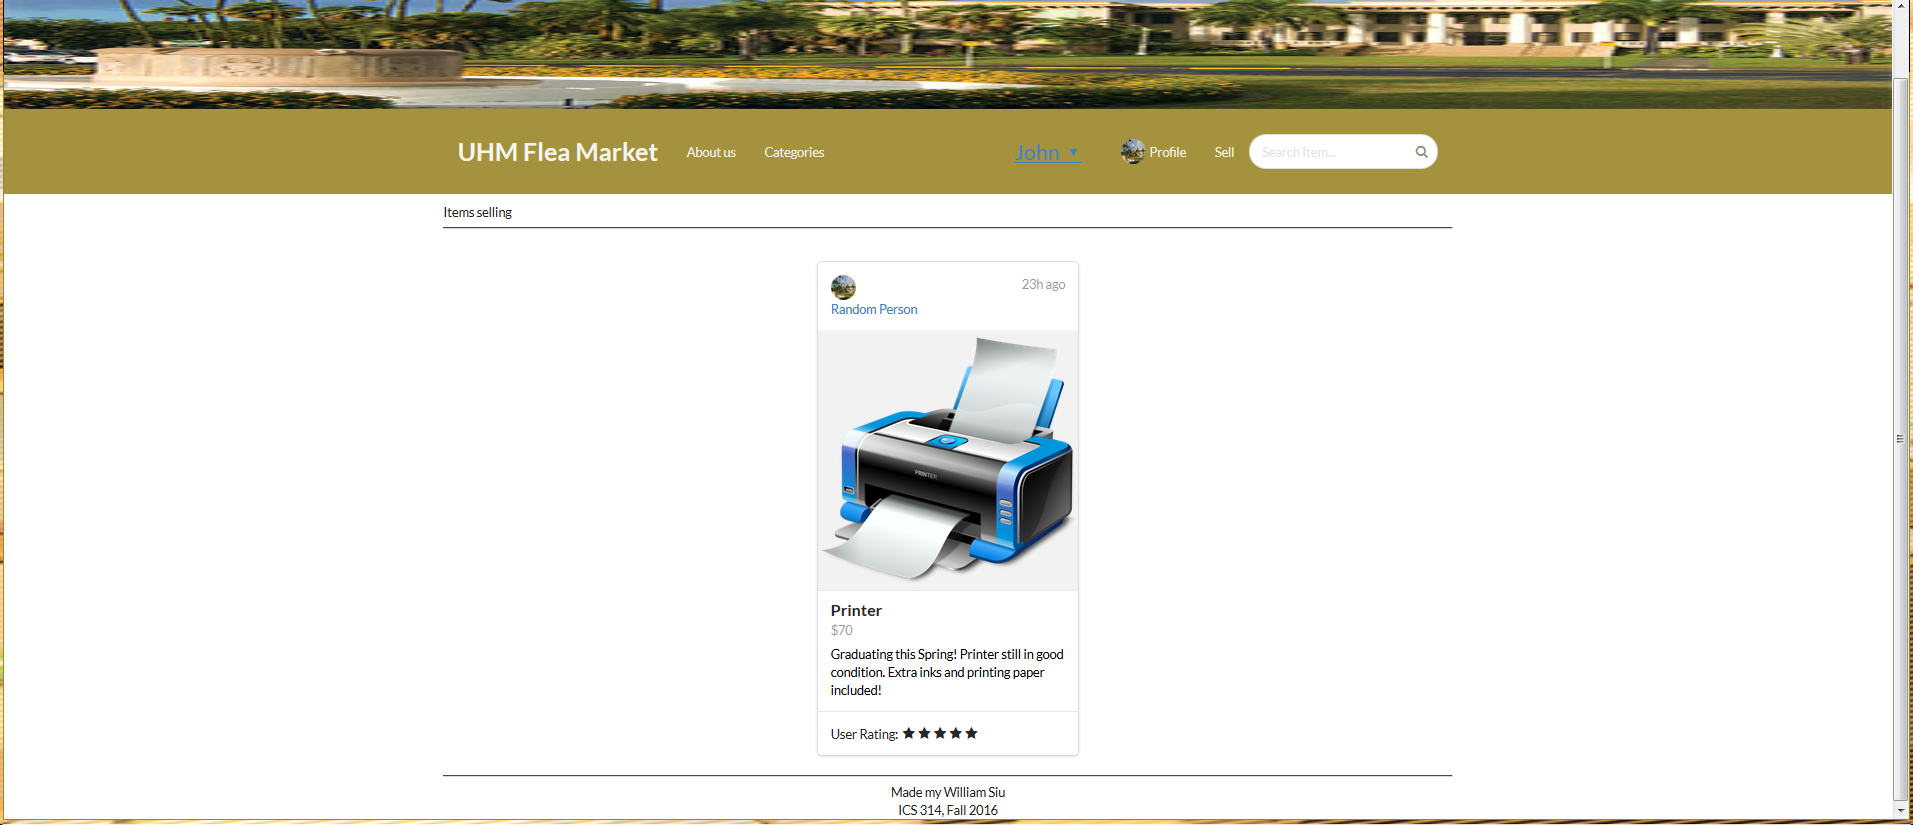
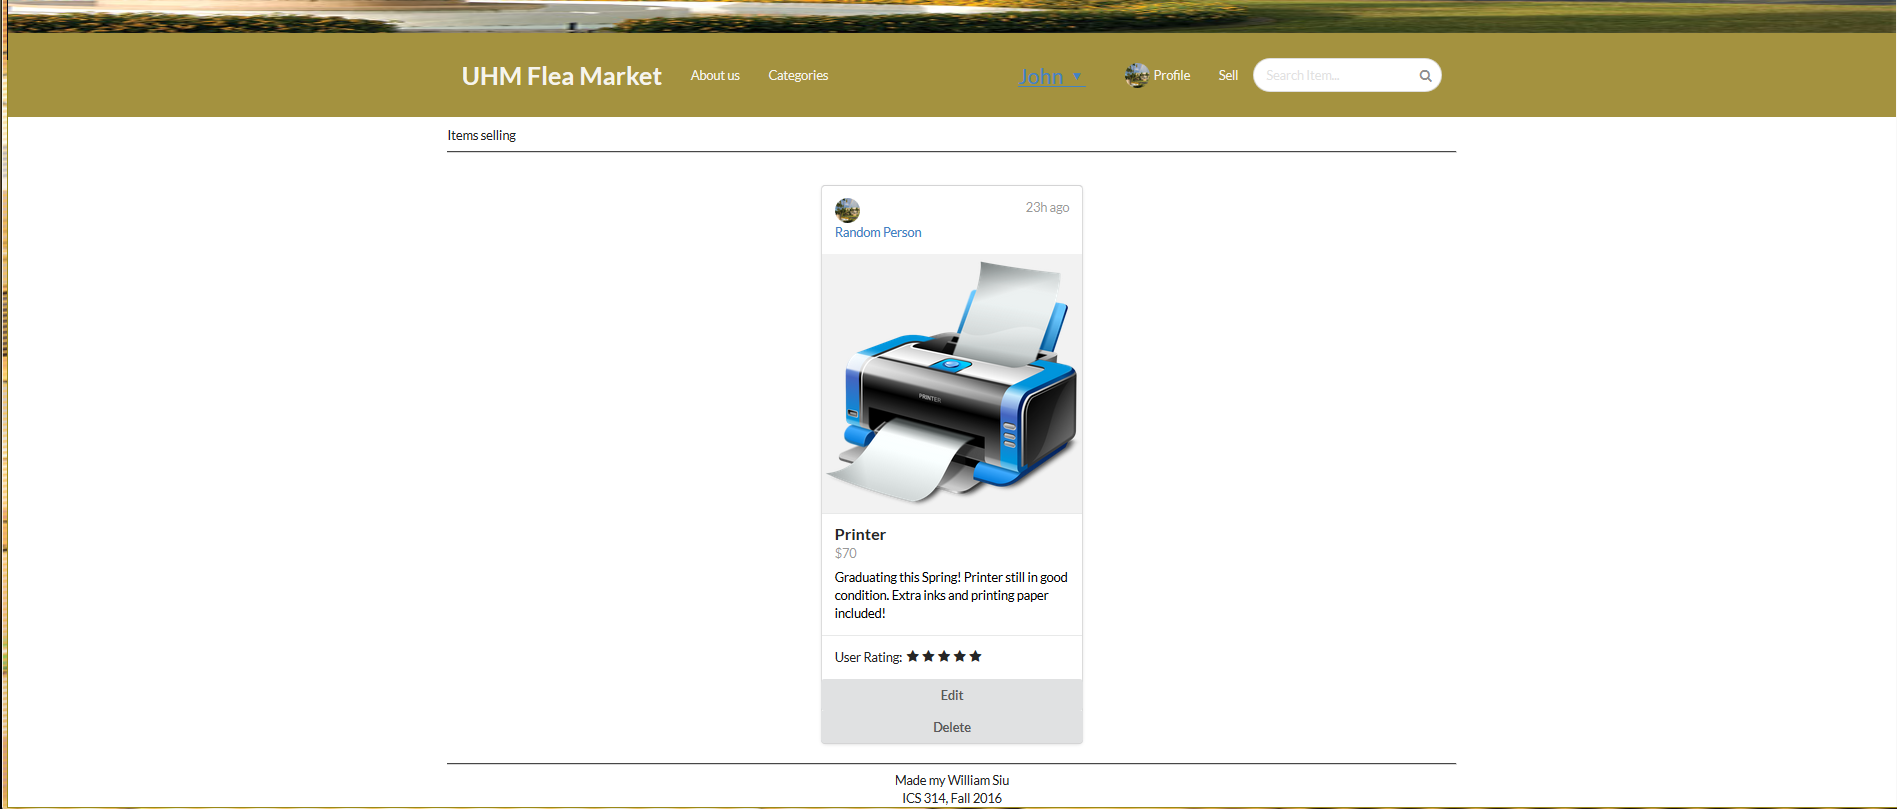
bookmark;new screenshots;add/delete sell items

Changed region(s): [[0.0, 0.0, 1.0, 1.0], [0.4354, 0.3399, 0.4665, 0.4017]]

diff --git a/app/imports/ui/pages/bookmark-page.html b/app/imports/ui/pages/bookmark-page.html
@@ -1,0 +1,35 @@
+<template name="Bookmark_Page">
+  <div class="ui container" style="font-size:38px; padding-top:20px">Bookmarks
+    <hr/>
+  </div>
+  <div class="ui link centered cards" style="padding-top: 30px">
+
+    <div class="card">
+      <div class="content">
+        <div class="right floated meta">23h ago</div>
+        <a class="{{ isActiveRoute 'Item_Page'}} item" href="{{ pathFor 'Item_Page' }}">
+          <img class="ui avatar image" src="/images/UHM-logo.jpg"> Random Person
+        </a>
+      </div>
+      <a class="{{ isActiveRoute 'Item_Page'}} small image" href="{{ pathFor 'Item_Page' }}">
+          <img src="/images/printer.png">
+        </a>
+      <div class="content">
+        <a class="header">Printer<i class="bookmark red icon"></i></a>
+        <div class="meta">
+          <a>$70</a>
+        </div>
+        <div class="description">
+          <a class="{{ isActiveRoute 'Item_Page'}} item" href="{{ pathFor 'Item_Page' }}" style="color:black">
+          Graduating this Spring! Printer still in good condition. Extra inks and printing paper included!
+        </a>
+        </div>
+      </div>
+      <div class="content">
+        User Rating:
+        <div class="ui rating" data-rating="5"></div>
+      </div>
+    </div>
+
+  </div>
+</template>

diff --git a/app/imports/ui/pages/profile-page.html b/app/imports/ui/pages/profile-page.html
@@ -1,7 +1,8 @@
 <template name="Profile_Page">
   <div style="padding-top: 20px" class="ui container">
-    <a class="{{ isActiveRoute 'Edit_Profile_Page'}} item" href="{{ pathFor 'Edit_Profile_Page' }}"> Edit profile </a><br/>
-    <a class="{{ isActiveRoute 'List_Stuff_Page'}} item" href="{{ pathFor 'List_Stuff_Page' }}"> View listed selling items</a><br/>
-    <a class="{{ isActiveRoute 'Message_Page'}} item" href="{{ pathFor 'Message_Page' }}"> View messages</a>
+    <a class="{{ isActiveRoute 'Edit_Profile_Page'}} item" href="{{ pathFor 'Edit_Profile_Page' }}"> Edit Profile </a><br/>
+    <a class="{{ isActiveRoute 'List_Stuff_Page'}} item" href="{{ pathFor 'List_Stuff_Page' }}"> View Listed Selling Items</a><br/>
+    <a class="{{ isActiveRoute 'Message_Page'}} item" href="{{ pathFor 'Message_Page' }}"> View Messages</a><br/>
+    <a class="{{ isActiveRoute 'Bookmark_Page'}} item" href="{{ pathFor 'Bookmark_Page' }}"> View Bookmarks</a>
   </div>
 </template>

diff --git a/app/imports/ui/pages/list-stuff-page.html b/app/imports/ui/pages/list-stuff-page.html
@@ -2,6 +2,7 @@
   {{#If_Logged_In}}
   <div class="ui container" style="padding-top: 10px">Items selling<hr/></div>
   <div class="ui link centered cards" style="padding-top: 30px">
+
     <div class="card">
       <div class="content">
         <div class="right floated meta">23h ago</div>
@@ -26,7 +27,10 @@
         User Rating:
         <div class="ui rating" data-rating="5"></div>
       </div>
+      <button class="ui button" type="submit">Edit</button>
+      <button class="ui button" type="submit">Delete</button>
     </div>
+
   </div>
   {{/If_Logged_In}}
 </template>

diff --git a/app/imports/startup/client/router.js b/app/imports/startup/client/router.js
@@ -15,6 +15,14 @@ FlowRouter.route('/about', {
   },
 });
 
+FlowRouter.route('/bookmark', {
+  name: 'Bookmark_Page',
+  action() {
+    BlazeLayout.render('App_Body', { main: 'Bookmark_Page' });
+  },
+});
+
+
 FlowRouter.route('/category', {
   name: 'Category_Page',
   action() {

diff --git a/app/imports/ui/pages/message-page.html b/app/imports/ui/pages/message-page.html
@@ -64,7 +64,7 @@
         <textarea></textarea>
       </div>
       <div class="ui blue labeled submit icon button">
-        <i class="icon edit"></i>Add Reply
+        <i class="icon send"></i> Send
       </div>
     </form>
   </div>

diff --git a/app/imports/ui/pages/index.js b/app/imports/ui/pages/index.js
@@ -5,6 +5,9 @@ import './home-page.js';
 
 import './about-us-page.html';
 
+import './bookmark-page.html';
+import './bookmark-page.js';
+
 import './category-page.html';
 import './category-page.js';
 

diff --git a/app/imports/ui/pages/bookmark-page.js b/app/imports/ui/pages/bookmark-page.js
@@ -1,0 +1,7 @@
+import {Template} from 'meteor/templating';
+
+Template.Bookmark_Page.onRendered(function () {
+  this.$('.ui.rating').rating({
+    maxRating: 5,
+  });
+});

diff --git a/app/imports/ui/pages/list-stuff-page.js b/app/imports/ui/pages/list-stuff-page.js
@@ -1,5 +1,4 @@
 import { Template } from 'meteor/templating';
-import { Stuff } from '../../api/stuff/stuff.js';
 
 Template.List_Stuff_Page.helpers({
 

diff --git a/README.md b/README.md
@@ -11,6 +11,9 @@ UHM_Market
 #About Us
 <img class="ui huge image" src="/doc/about-us.png">
 
+#Bookmark Page
+<img class="ui huge image" src="/doc/bookmark-page.png">
+
 # Category Page
 <img class="ui huge image" src="/doc/category-page.png">
 
